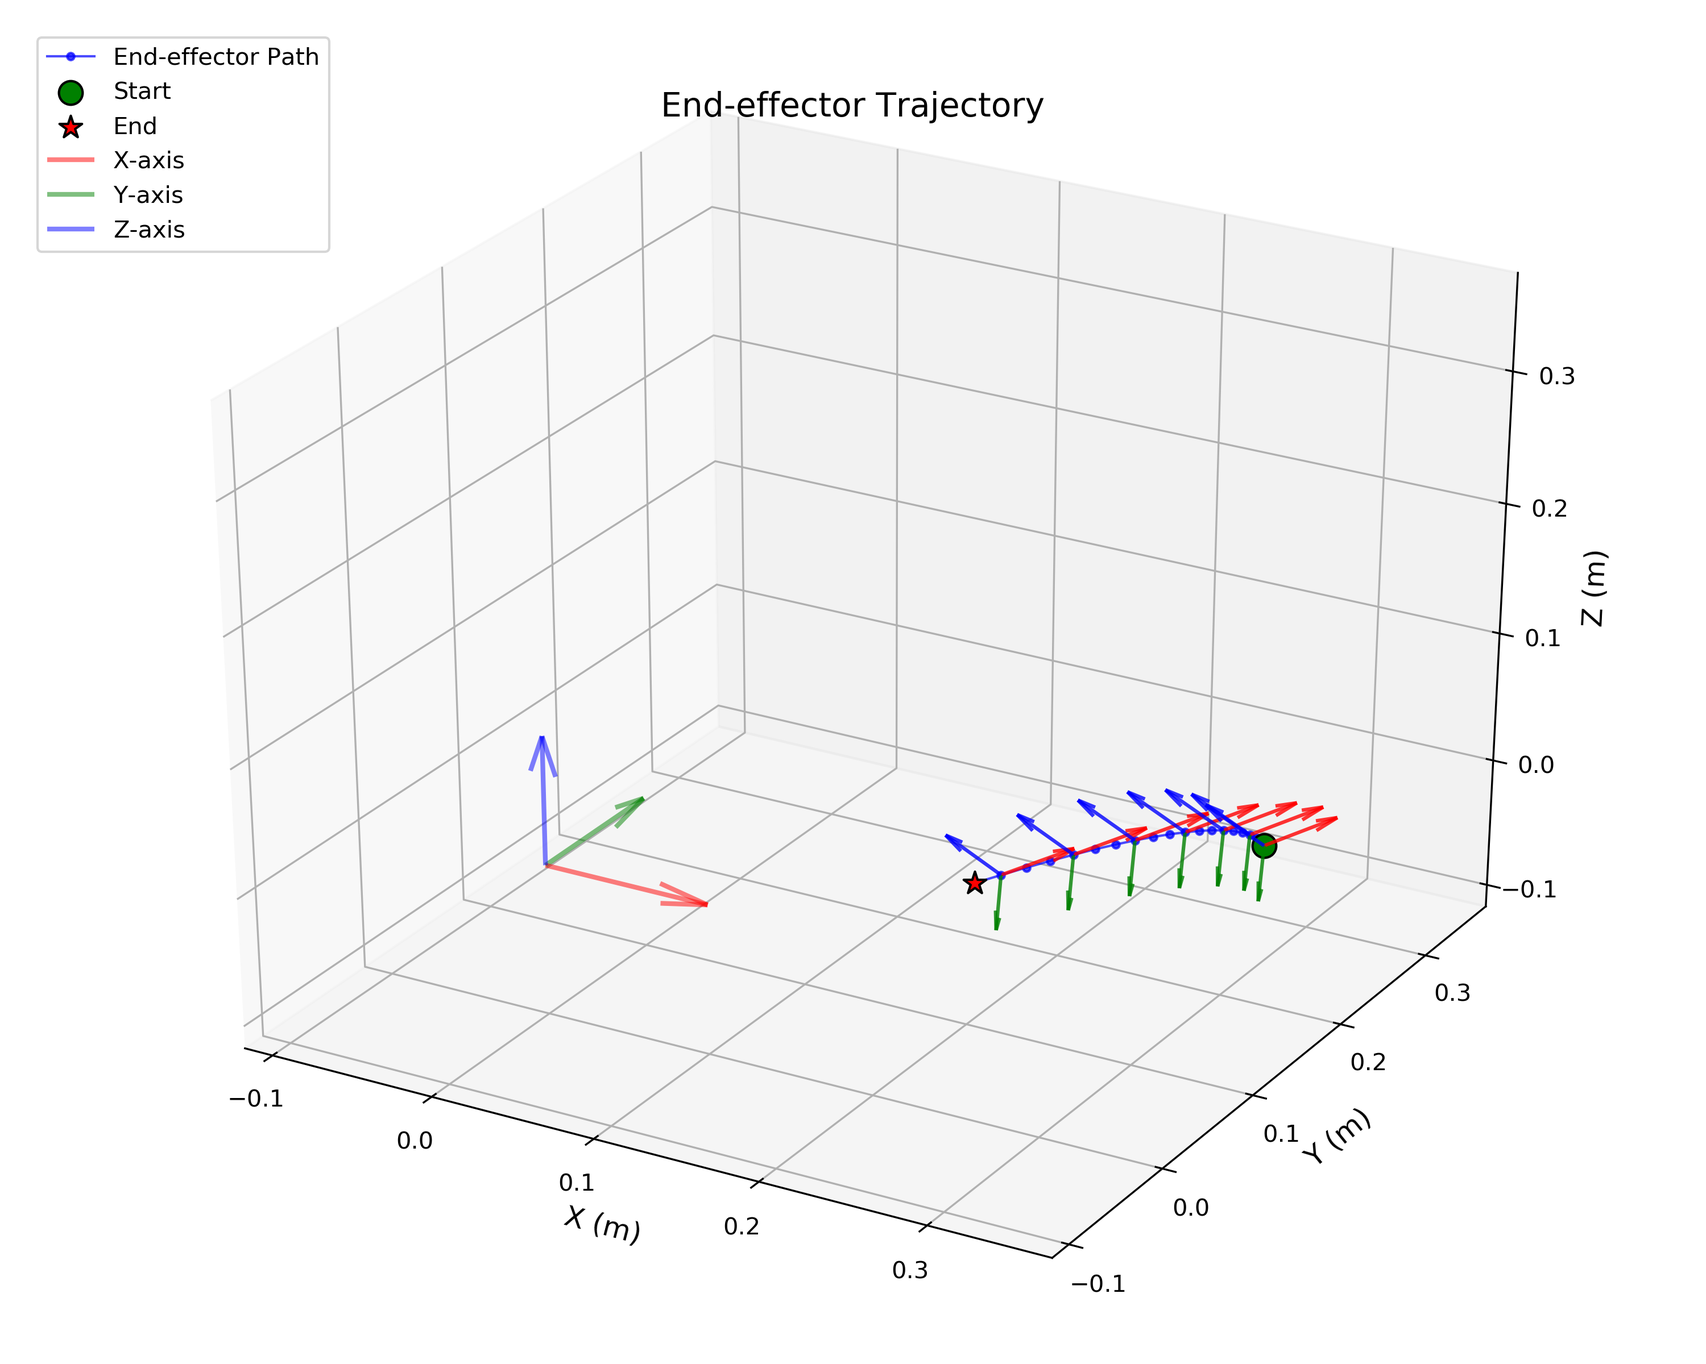
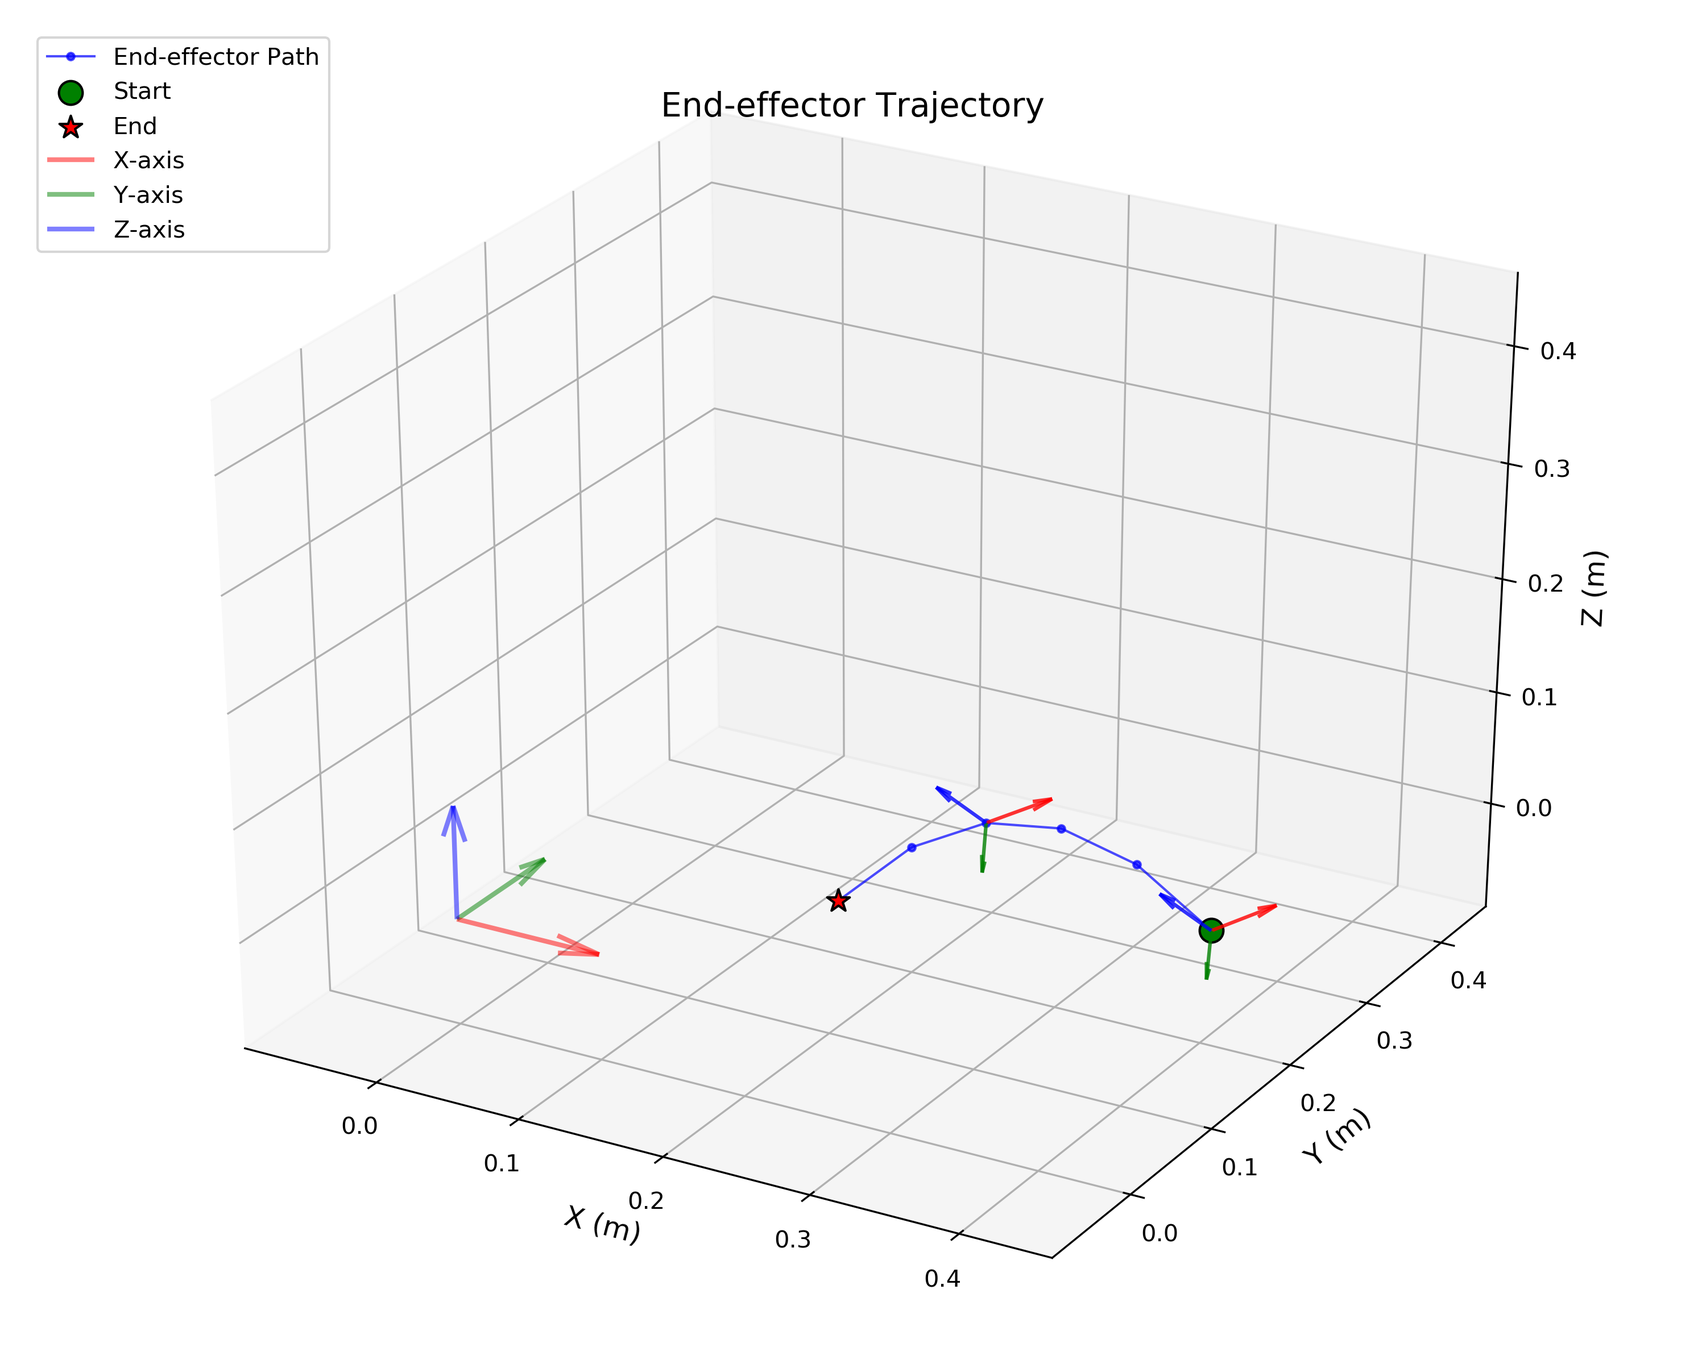
refactor(trajectory): 优化轨迹规划和双臂协同控制
- 修改了键盘控制逻辑，调整了速度和角度的增减幅度
- 更新了双臂协同控制的策略，优化了插入楔子的动作
- 调整了轨迹规划的参数，提高了运动的平滑性和准确性
- 优化了逆运动学求解的逻辑，增加了随机种子的数量
- 更新了抓取箱子的动作，调整了手臂的初始位置

diff --git a/ur_record/controllers/arm_controller.py b/ur_record/controllers/arm_controller.py
@@ -41,8 +41,8 @@ class ArmController:
         self.arm_kinematics = [self.arm_right_kinematics, self.arm_left_kinematics]
         self.mirror_ls = [1, -1, -1, 1, -1, 1, -1]
         # 控制器参数
-        self.joint_speed = rospy.get_param("~joint_speed", 1)  # rpm
-        self.joint_current = rospy.get_param("~joint_current", 5.0)  # A
+        self.joint_speed = rospy.get_param("~joint_speed", 150)  # rpm
+        self.joint_current = rospy.get_param("~joint_current", 80.0)  # A
         self.joint_tolerance = rospy.get_param("~joint_tolerance", 0.01)  # rad
         self.tr_distance = rospy.get_param("~tr_distance", 0.05)  # m
         self.tr_point_time = rospy.get_param("~tr_point_time", min(0.2, 2 * math.pi / self.joint_speed))  # s
@@ -98,12 +98,12 @@ class ArmController:
         right_pos, _, right_quat = self.arm_right_kinematics.forward_kinematics(right_joints)
         left_diff = np.linalg.norm(left_pos - left_target_position)
         right_diff = np.linalg.norm(right_pos - right_target_position)
-        # if left_diff < right_diff:
-        #     for i in range(len(right_joints)):
-        #         right_joints[i]= left_joints[i] * self.mirror_ls[i]
-        # else:
-        #     for i in range(len(left_joints)):
-        #         left_joints[i]= right_joints[i] * self.mirror_ls[i]
+        if left_diff < right_diff:
+            for i in range(len(right_joints)):
+                right_joints[i]= left_joints[i] * self.mirror_ls[i]
+        else:
+            for i in range(len(left_joints)):
+                left_joints[i]= right_joints[i] * self.mirror_ls[i]
         return left_joints, right_joints
 
     def arm_status_callback(self, arm_status_msg: MotorStatusMsg):
@@ -335,8 +335,10 @@ class ArmController:
         left_end_pos_ = self.planner.create_pose(left_target_pos, left_target_quat)
         right_start_pos_ = self.planner.create_pose(self.right_end_effector_pose, self.right_end_effector_quat)
         right_end_pos_ = self.planner.create_pose(right_target_pos, right_target_quat)
+        print("self.left_end_effector_pose = ", self.left_end_effector_pose)
+        print("self.right_end_effector_pose = ", self.right_end_effector_pose)
         traj_left_points_, traj_left_xyzw_ = self.planner.plan(left_start_pos_, left_end_pos_, steps, is_random, direction)
-        traj_right_points_, traj_right_xyzw_ = self.planner.plan(right_start_pos_, right_end_pos_, 5, is_random, direction)
+        traj_right_points_, traj_right_xyzw_ = self.planner.plan(right_start_pos_, right_end_pos_, steps, is_random, direction)
         for i in range(steps):
             left_target_pos = traj_left_points_[i]
             left_target_quat = [traj_left_xyzw_[i][3], traj_left_xyzw_[i][0], traj_left_xyzw_[i][1], traj_left_xyzw_[i][2]]
@@ -344,7 +346,7 @@ class ArmController:
             right_target_quat = [traj_right_xyzw_[i][3], traj_right_xyzw_[i][0], traj_right_xyzw_[i][1], traj_right_xyzw_[i][2]]
             left_target_joint_, right_target_joint_ = self.ik_dual(left_target_pos, left_target_quat, self.dual_joint_positions[True], right_target_pos, right_target_quat, self.dual_joint_positions[False])
             self.send_arms_cmd_pos(self.joint_names[True] + self.joint_names[False], list(left_target_joint_) + list(right_target_joint_), [self.joint_speed] * 14, [self.joint_current] * 14)
-            rospy.sleep(0.01)
+            rospy.sleep(0.1)
             left_true_error2_ = np.linalg.norm(np.array(left_target_pos) - np.array(self.left_end_effector_pose))  # 左臂实际末端位置误差
             right_true_error2_ = np.linalg.norm(np.array(right_target_pos) - np.array(self.right_end_effector_pose))  # 右臂实际末端位置误差
             left_arm_move_status, right_arm_move_status = left_true_error2_ < self.joint_tolerance, right_true_error2_ < self.joint_tolerance

diff --git a/ur_record/main.py b/ur_record/main.py
@@ -100,23 +100,16 @@ class RobotController:
         self.hand_controller.grip_box()
         self.arm_controller.rotate_joint([-0.25, 0.0, 0.0, 0.0, 0.0, 0.0, 0.0], [-0.25, -0.0, 0.0, 0.0, 0.0, 0.0, 0.0])
         # 插入楔子
-        left_target_pos_ = [0.32404316, 0.1997382, 0.00859038]
-        left_target_quat_ = [0.65053061, -0.52448355, -0.37982903, 0.39680832]
-
-        right_target_pos_ = [0.32400525, -0.19905013, 0.00859038]
-        right_target_quat_ = [0.64999305, 0.52478635, -0.37940189, -0.39769653]
-        
-        # insert_wedge_success = self.arm_controller.move_dual_arm_by_xyz(left_target_pos_, left_target_quat_, right_target_pos_, right_target_quat_)
-        
-        # 插入楔子
         left_target_pos_ = [0.15371069, 0.19029899, -0.06846677]
         left_target_quat_ = [0.6457788789185539, -0.5312803574078042, -0.37486812155046495, 0.40023082442580193]
 
         right_target_pos_ = [0.15371069, -0.19029899, -0.06846677]
         right_target_quat_ = [0.645778878918554, 0.5312803574078042, -0.37486812155046495, -0.40023082442580193]
         # # 发送消息
-        insert_wedge_success = self.arm_controller.move_dual_arm_by_xyz_tr(left_target_pos_, left_target_quat_, right_target_pos_, right_target_quat_, is_random=False, direction=[1.5, 0.0, 1.5])
-        # self.arm_controller.move_dual_forward(0.05)
+        insert_wedge_success = self.arm_controller.move_dual_arm_by_xyz_tr(left_target_pos_, left_target_quat_, right_target_pos_, right_target_quat_, steps=6, is_random=False, direction=[0.0, 0.0, 3.5])
+        # rospy.sleep(1)
+        # for i in range(5):
+        #     robot_controller.arm_controller.move_dual_forward(0.05)
         return insert_wedge_success
 
     def grab_box(self):
@@ -136,7 +129,8 @@ class RobotController:
         right_position = [-0.8031110763549805, -0.35185794830322266, 0.5942502021789551, -0.17487382888793945, -1.866687297821045, 0.837101936340332, 0.6051468849182129]
         grab_step3_success = self.arm_controller.rotate_dual_joint(left_position, right_position)
         self.hand_controller.grip_box()
-        move_left_status = self.arm_controller.rotate_joint([-0.3, 0.0, 0.0, -0.1, 0.0, 0.0, 0.0], [-0.3, -0.0, 0.0, -0.1, 0.0, 0.0, 0.0])
+        move_left_status = self.arm_controller.rotate_joint([-0.3, 0.0, 0.0, -0.0, 0.0, 0.0, 0.0], [-0.3, -0.0, 0.0, -0.0, 0.0, 0.0, 0.0])
+        
         # rospy.sleep(5)
         # move_left_status = self.arm_controller.rotate_joint([0.0, 0.3, 0.0, 0.0, 0.0, 0.0, 0.0], [0.0, -0.3, 0.0, 0.0, 0.0, 0.0, 0.0])
         # 3 移动到抓取点
@@ -196,6 +190,5 @@ if __name__ == "__main__":
     hand_init_success = robot_controller.hand_controller.init_hand_status()
     move_left_status = robot_controller.arm_controller.rotate_joint([-0.0, 0.1, 0.0, 0.0, 0.0, 0.0, 0.0], [-0.0, -0.1, 0.0, 0.0, 0.0, 0.0, 0.0])
     arm_init_success = robot_controller.arm_controller.init_arm_status()
-    # robot_controller.location_wedge()
-    robot_controller.insert_wedge()
+    robot_controller.grab_box()
     print("Service test end")

diff --git a/ur_record/solver/tracik/arm_solver_que_ik.py b/ur_record/solver/tracik/arm_solver_que_ik.py
@@ -5,7 +5,7 @@ from mpl_toolkits.mplot3d import Axes3D
 from tracikpy import TracIKSolver
 import matplotlib.pyplot as plt
 import numpy as np
-from arm_solver_que import ArmTracIKSolver
+from arm_solver_que_back import ArmTracIKSolver
 
 
 
@@ -13,21 +13,21 @@ if __name__ == "__main__":
     arm_left_kinematics = ArmTracIKSolver("./ur_record/urdf/robot.urdf", "pelvis", "wrist_roll_l_link")
     arm_right_kinematics = ArmTracIKSolver("./ur_record/urdf/robot.urdf", "pelvis", "wrist_roll_r_link")
     # 设置目标位姿
-    left_pos = [5.0485000000000016e-05, 0.3474061668312111, -0.16362046604205055]
-    left_quat = [0.9929713547651187, 0.11835492645396999, -0.0, 1.1102230246251565e-16]
-    right_pos = [5.0485000000000016e-05, -0.3474061668312111, -0.16362046604205055]
-    right_quat = [0.9929713547651187, -0.11835492645396999, 0.0, -1.1102230246251565e-16]
-    init_left_joints = [0.0, 0.15, 0.0, -0.0, 0.0, 0.0, -0.0]
-    init_right_joints = [0.0, -0.15, 0.0, -0.0, 0.0, 0.0, -0.0]
+    left_pos = [0.32404316, 0.1997382, 0.00859038]
+    left_quat = [0.65053061, -0.52448355, -0.37982903, 0.39680832]
+    right_pos = [0.32400525, -0.19905013, 0.00859038]
+    right_quat = [0.64999305, 0.52478635, -0.37940189, -0.39769653]
+    init_left_joints = [0.0, 0.35, 0.0, -0.0, 0.0, 0.0, -0.0]
+    init_right_joints = [0.0, -0.35, 0.0, -0.0, 0.0, 0.0, -0.0]
     while True:
         left_joints = arm_left_kinematics.inverse_kinematics(left_pos, left_quat, init_left_joints)
         right_joints = arm_right_kinematics.inverse_kinematics(right_pos, right_quat, init_right_joints)
-        # print("left_joints = ", list(left_joints))
+        print("left_joints = ", list(left_joints))
         # print("right_joints = ", list(right_joints))
         # 1. 正向运动学：计算末端位姿（位置和方向）
         valid_left_pos, valid_left_rot, valid_left_quat = arm_left_kinematics.forward_kinematics(left_joints)
         valid_right_pos, valid_right_rot, valid_right_quat = arm_right_kinematics.forward_kinematics(right_joints)
         left_xyz_diff = np.array(left_pos) - np.array(valid_left_pos)
         right_xyz_diff = np.array(right_pos) - np.array(valid_right_pos)
-        print(f"left_diff = {list(left_xyz_diff)}")
-        print(f"right_diff = {list(right_xyz_diff)}")
+        # print(f"left_diff = {list(left_xyz_diff)}")
+        # print(f"right_diff = {list(right_xyz_diff)}")

diff --git a/ur_record/tools/key_ctrl.py b/ur_record/tools/key_ctrl.py
@@ -12,13 +12,13 @@ import rospy
 import threading
 import time
 from std_srvs.srv import Empty
-from geometry_msgs.msg import TwistStamped
+from geometry_msgs.msg import TwistStamped  # 修改为使用 TwistStamped
 
 class G1ControlSystem:
     def __init__(self):
         self.gazebo_process = None
         self.ctrl_process = None
-        self.vel_publisher = rospy.Publisher('/hric/robot/cmd_vel', TwistStamped, queue_size=1)
+        self.vel_publisher = rospy.Publisher('/cmd_vel', TwistStamped, queue_size=1)  # 修正为 TwistStamped
         self.is_walking = False
         self.current_vel = TwistStamped()
         self.key_listener_active = True
@@ -58,21 +58,21 @@ class G1ControlSystem:
                 
                 # 处理按键
                 if ch == 'w':
-                    self.current_vel.twist.linear.x = 0.8
+                    self.current_vel.twist.linear.x = 0.05
                 elif ch == 's':
-                    self.current_vel.twist.linear.x = -0.5
+                    self.current_vel.twist.linear.x = -0.05
                 elif ch == 'a':
-                    self.current_vel.twist.linear.y = 0.5
+                    self.current_vel.twist.linear.y = 0.05
                 elif ch == 'd':
-                    self.current_vel.twist.linear.y = -0.5
+                    self.current_vel.twist.linear.y = -0.05
                 elif ch == 'q':
-                    self.current_vel.twist.angular.z = 0.5
+                    self.current_vel.twist.angular.z = 0.1
                 elif ch == 'e':
-                    self.current_vel.twist.angular.z = -0.5
+                    self.current_vel.twist.angular.z = -0.1
                 elif ch == ' ':  # 空格键
-                    self.current_vel.twist.linear.x = 0.0
-                    self.current_vel.twist.linear.y = 0.0
-                    self.current_vel.twist.angular.z = 0.0
+                    self.current_vel.twist.linear.x = 0
+                    self.current_vel.twist.linear.y = 0
+                    self.current_vel.twist.angular.z = 0
                 elif ord(ch) == 27:  # ESC键
                     self.is_walking = False
                     self.key_listener_active = False

diff --git a/ur_record/solver/tracik/arm_solver_que.py b/ur_record/solver/tracik/arm_solver_que.py
@@ -25,7 +25,7 @@ class ArmTracIKSolver(TracIKSolver):
         self.current_joints = [0.0] * self.number_of_joints
         self.obstacle_detected = False
         self.solution_queue = []  # 新增：求解结果队列
-        self.queue_size = 10  # 队列容量
+        self.queue_size = 20  # 队列容量
 
     def robust_ik(self, ee_pose, current_joints=None, max_attempts=20, tol=1e-3, singularity_threshold=0.001):
         """
@@ -148,9 +148,9 @@ class ArmTracIKSolver(TracIKSolver):
         if self._is_valid(sol, tol, solutions):
             solutions.append(sol)
         
-        # 3. 随机种子（至少5个）
+        # 3. 随机种子（至少10个）
         attempt_count = 0
-        while len(solutions) < 5 and attempt_count < max_attempts:
+        while len(solutions) < 10 and attempt_count < max_attempts:
             qinit = np.random.default_rng().uniform(self.lb, self.ub)
             sol = self.ik(ee_pose, qinit=qinit)
             if self._is_valid(sol, tol, solutions):

diff --git a/ur_record/solver/tracik/arm_solver_que_back.py b/ur_record/solver/tracik/arm_solver_que_back.py
@@ -24,7 +24,7 @@ class ArmTracIKSolver(TracIKSolver):
         self.current_joints = [0.0] * self.number_of_joints
         self.obstacle_detected = False
         self.solution_queue = []  # 新增：求解结果队列
-        self.queue_size = 10  # 队列容量
+        self.queue_size = 20  # 队列容量
 
     def robust_ik(self, ee_pose, current_joints=None, max_attempts=20, tol=1e-3, singularity_threshold=0.001):
         """
@@ -147,9 +147,9 @@ class ArmTracIKSolver(TracIKSolver):
         if self._is_valid(sol, tol, solutions):
             solutions.append(sol)
         
-        # 3. 随机种子（至少5个）
+        # 3. 随机种子（至少10个）
         attempt_count = 0
-        while len(solutions) < 5 and attempt_count < max_attempts:
+        while len(solutions) < 10 and attempt_count < max_attempts:
             qinit = np.random.default_rng().uniform(self.lb, self.ub)
             sol = self.ik(ee_pose, qinit=qinit)
             if self._is_valid(sol, tol, solutions):

diff --git a/ur_record/trajectory/trajectory.py b/ur_record/trajectory/trajectory.py
@@ -195,10 +195,10 @@ if __name__ == "__main__":
     # 示例用法
     planner = TrajectoryPlanner()
 
-    start_pose = planner.create_pose([0.32404316, 0.1997382, 0.00859038], [0.65053061, -0.52448355, -0.37982903, 0.39680832])
-    end_pose = planner.create_pose([0.15371069, 0.19029899, -0.06846677], [0.6457788789185539, -0.5312803574078042, -0.37486812155046495, 0.40023082442580193])
+    start_pose = planner.create_pose([0.40593656521727806, 0.1997382, 0.00859038], [0.65053061, -0.52448355, -0.37982903, 0.39680832])
+    end_pose = planner.create_pose([0.15371069, 0.19029899, -0.03846677], [0.6457788789185539, -0.5312803574078042, -0.37486812155046495, 0.40023082442580193])
     
-    positions, orientations = planner.plan(start_pose, end_pose, steps=20, is_random=False, direction=[1.5, 0.0, 1.5])
+    positions, orientations = planner.plan(start_pose, end_pose, steps=6, is_random=False, direction=[0.0, 0.0, 3.5])
     
     # 可视化轨迹
     positions_array = np.array(positions)

diff --git a/unitree/robocup_g1/README.md b/unitree/robocup_g1/README.md
@@ -1,0 +1,128 @@
+# 安装与使用指南
+
+## 一. 环境必备
+
+### ROS1 环境安装，版本为 Noetic
+
+使用鱼香ROS一键安装指令:
+wget <http://fishros.com/install> -O fishros && . fishros
+
+安装完毕后重启系统。
+
+### Gazebo 环境安装, 版本为 Gazebo Classic
+
+参照以下安装流程：
+
+#### 1. 更新系统
+
+sudo apt update && sudo apt upgrade -y
+
+#### 2. 安装依赖库
+
+sudo apt install -y \
+    cmake \
+    curl \
+    git \
+    libfreeimage-dev \
+    libprotoc-dev \
+    protobuf-compiler \
+    libignition-math6-dev \
+    libsqlite3-dev \
+    libtinyxml2-dev \
+    libgflags-dev \
+    libavformat-dev \
+    libavcodec-dev
+
+#### 3. 添加 Gazebo 官方软件源
+
+sudo apt install -y wget
+wget <https://packages.osrfoundation.org/gazebo.gpg> -O /usr/share/keyrings/pkgs-osrf-archive-keyring.gpg
+echo "deb [arch=$(dpkg --print-architecture) signed-by=/usr/share/keyrings/pkgs-osrf-archive-keyring.gpg] http://packages.osrfoundation.org/gazebo/ubuntu-stable $(lsb_release -cs) main" | sudo tee /etc/apt/sources.list.d/gazebo-stable.list > /dev/null
+
+#### 4. 安装 Gazebo
+
+sudo apt update
+sudo apt install -y gazebo11 libgazebo11-dev
+
+#### 5. 配置环境变量
+
+echo "source /usr/share/gazebo/setup.sh" >> ~/.bashrc
+source ~/.bashrc
+
+#### 6. 验证安装
+
+gazebo worlds/empty.world
+
+安装完毕后重启系统。
+
+### Eigen3.4 安装，版本为3.4
+
+官方地址：<https://eigen.tuxfamily.org/>
+下载Eligen3.4库代码并解压到当前目录。
+
+```bash
+tar -xzf eigen-3.4.0.tar.gz
+cd eigen-3.4.0
+```bash
+编译并安装。
+```bash
+mkdir build
+cd build
+cmake ..
+sudo make install
+```
+
+### RealSense SDK 安装
+
+```bash
+sudo apt-get install ros-$ROS_DISTRO-realsense2-camera
+```
+
+### 安装遥控器ros驱动：ros-noetic-joy
+
+```bash
+sudo apt-get install ros-$ROS_DISTRO-joy
+```
+
+### Ignition-math 安装
+
+```bash
+sudo apt install libignition-math4-dev
+```
+
+## 二. 编译流程
+
+```bash
+cd ~/robocup_g1/
+catkin_make
+```
+
+## 三. 启动流程
+
+```bash
+# 1 启动仿真环境
+source devel/setup.bash
+roslaunch unitree_guide gazebo.launch
+
+# 2 启动控制器
+source devel/setup.bash
+./devel/lib/unitree_guide/junior_ctrl 
+
+# 3 在junior_ctrl按2
+# 4 在gazebo界面点击暂停
+# 5 在gazebo界面点击:ctrl+shift+r
+# 6 在junior_ctrl按4
+# 7 在gazebo界面点击暂停
+```
+
+![alt text](../../data/img/robocup_g1.jpg)
+
+## 四. 模式切换
+
+在 `junior_ctrl` 主界面输入 `2`，控制机器人从 **State_Passive** 切换到 **fixed stand**。回到 Gazebo 主界面，按下暂停键，然后在主菜单中选择 **Edit/Reset Model Poses** 以重置机器人的位姿。在 `junior_ctrl` 主界面输入 `4`，控制机器人从 **fixed stand** 切换到 **LOCOMOTION**。回到 Gazebo 主界面，点击播放键，重启应用。
+
+## 五. xbox360遥控控制G1行走
+
+1、导航指示灯指向1亮
+2、左手摇杆控制前后、左右移动
+3、右侧摇杆控制左转和右转

diff --git a/ur_record/0Debug.md b/ur_record/0Debug.md
@@ -94,3 +94,26 @@ right_joint_positions =  [0.07056331634521484, 0.09664106369018555, -0.548757553
 right_end_effector_pose =  [ 0.17680298 -0.34019713 -0.06763432]
 right_end_effector_quat =  [0.8208063639300158, -0.25226822831247847, -0.4503065771990196, -0.24466638601853938]
 ```
+
+## 抓住多个纸箱
+
+```shell
+git clone https://github.com/RobotWebTools/rosbridge_suite.git
+git checkout ros1
+catkin_make
+sudo apt-get install python3-autobahn python3-twisted
+git clone https://github.com/GT-RAIL/rosauth.git
+roslaunch rosbridge_server rosbridge_websocket.launch address:=192.168.41.1 port:=9090
+```
+
+## 插入楔子
+
+```python
+# 抓住楔子抬起来后的位置
+left_joint_positions = [-0.4481387138366699, -0.20759057998657227, 0.20469045639038086, -1.1536016464233398, 1.1887874603271484, 0.4916706085205078, -0.1565570831298828]
+left_end_effector_pose = [0.40593656521727806, 0.19103989555676446, 0.09998230819120782]
+left_end_effector_quat = [0.6022336272331124, -0.5738677670383182, -0.45149258095975353, 0.3227148796110952]
+right_joint_positions = [-0.4481620788574219, 0.2075667381286621, -0.20476245880126953, -1.1535301208496094, -1.1888833045959473, 0.4928269386291504, 0.15617084503173828]
+right_end_effector_pose = [0.40593221109150884, -0.1910419269841364, 0.09996707405770607]
+right_end_effector_quat = [0.6025419528516526, 0.5739891547777484, -0.4510198433436428, -0.3225844791082153]
+```
